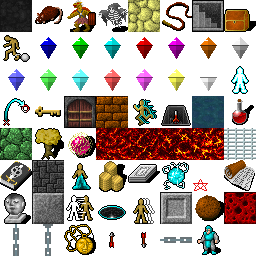
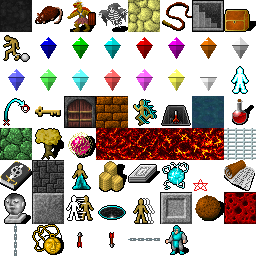
Draw the chains at their native 32px, and chords as plain rope
The tileset is 32x32, not 16x16 as I had assumed from the sheet
dimensions alone: the chandeliers sit one per cell, spaced exactly 32
apart, and their art starts on a 32px boundary and runs into the cell
below. Everything was therefore being doubled, so the chains were drawn
at twice the thickness the artist intended.

ZOOM is now 1 and the chandelier is taken as a whole authored cell
rather than reassembled from a chain and a bracket.

Drop-chords draw as plain rope. A chord turns into rope the moment it is
touched, so showing it as a chandelier broke the run visually for a
state that never survives contact. dropchord.png is still generated if a
distinct sprite is ever wanted.

diff --git a/tools/make-sprites.ts b/tools/make-sprites.ts
@@ -1,8 +1,9 @@
 /**
  * Build the tiles the Crawl set has no equivalent for, cut from Castlevania.png.
  *
- * That sheet is on a 16px grid, so everything here is doubled with nearest
- * neighbour to sit alongside the 32px Crawl art without going soft.
+ * Source: "New Gothic Haunted Castle Tileset 32x32" by MidnitePixel. The sheet
+ * is 704x448, which is 22x14 cells at 32px -- the chandeliers sit one per cell,
+ * chains centred at x = 207, 239, 271, 303 -- so nothing needs scaling.
  *
  * Output goes to port/assets/, which the packer reads for any sprite path
  * beginning "local/".
@@ -17,7 +18,7 @@ const HERE = dirname(fileURLToPath(import.meta.url));
 const SRC = join(HERE, '..', '..', 'Castlevania.png');
 const ASSETS = join(HERE, '..', 'assets');
 const SIZE = 32;
-const ZOOM = 2;
+const ZOOM = 1; // the sheet is already 32px per cell, so nothing is scaled
 
 const src = PNG.sync.read(readFileSync(SRC));
 const at = (x: number, y: number): [number, number, number, number] => {
@@ -70,20 +71,12 @@ function rope(): PNG {
  * being distinguishable: the bracket marks the cell you can activate.
  */
 function dropChord(): PNG {
-  const CHAIN_X = 270, CHAIN_W = 5;
-  const MOUNT_TOP = 96, MOUNT_H = 2; // the wide bar the chain hangs from
-  const LINK_TOP = 98, LINK_H = 7, PADDED = 8;
+  // The chandelier is drawn across two cells -- chain in the one above, bowl in
+  // this one -- so the lower cell is taken whole, bracket and bowl included.
+  const CELL_X = 256, CELL_Y = 128;
   const png = blank();
-  const dx = Math.floor((SIZE - CHAIN_W * ZOOM) / 2);
   for (let y = 0; y < SIZE; y++) {
-    const row = Math.floor(y / ZOOM);
-    const srcY =
-      row < MOUNT_H
-        ? MOUNT_TOP + row
-        : LINK_TOP + Math.min((row - MOUNT_H) % PADDED, LINK_H - 1);
-    for (let x = 0; x < CHAIN_W * ZOOM; x++) {
-      put(png, dx + x, y, at(CHAIN_X + Math.floor(x / ZOOM), srcY));
-    }
+    for (let x = 0; x < SIZE; x++) put(png, x, y, at(CELL_X + x, CELL_Y + y));
   }
   return png;
 }
